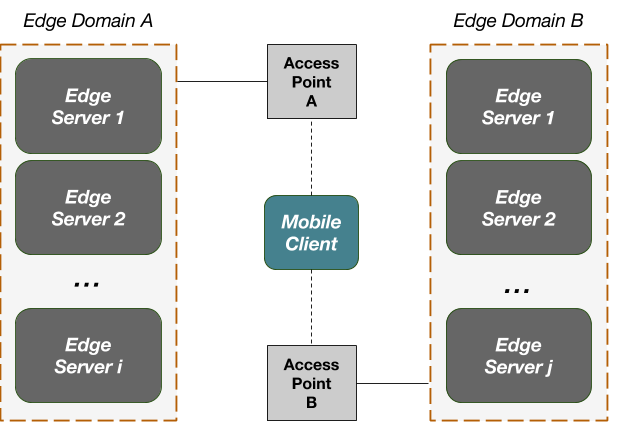
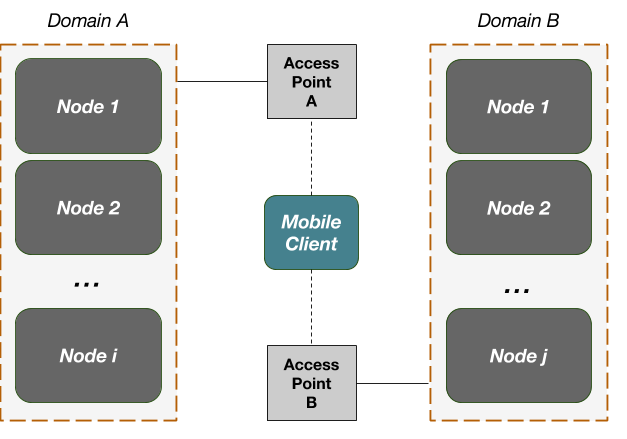
edge -> domain

diff --git a/sections/requirements.tex b/sections/requirements.tex
@@ -9,13 +9,13 @@ The continuum encompasses distinct types of computational resources located at t
 \begin{itemize}
 
 
-\item  Agnostic with respect to the capabilities and specific technology details of different computing platforms (\stepcounter{req_count}\textbf{R\arabic{req_count}}); and
+\item  Agnostic with respect to the capabilities and specific technology details of different computing platforms and infrastructures in the continuum (\stepcounter{req_count}\textbf{R\arabic{req_count}}); and
 
-\item Flexible, so that different instances of the model can address the particularities of distinct types of computing platforms (\stepcounter{req_count}\textbf{R\arabic{req_count}}).
+\item Flexible, so that different instances of the model can address the many particularities in the continuum (\stepcounter{req_count}\textbf{R\arabic{req_count}}).
 
 \end{itemize}
 
-From this point on, the term \textit{domain} is used to abstract whatever computational resources can be employed by different computing platforms (i.e., those used by cloud, mobile-edge, local-edge, and local). It is also implied that edge domains are accessible by mobile clients through some (network) access point. Fig.~\ref{fig:edge-domain-client} illustrates these abstractions. 
+From this point on, the term \textit{domain} is used to abstract whatever computational resources can be employed by different computing platforms (i.e., those used by cloud, mobile-edge, local-edge, and local). It is also implied that edge domains are accessible by clients through some (network) access point. Fig.~\ref{fig:edge-domain-client} illustrates these abstractions. 
 
 \begin{figure}[tbp]
 	\centering
@@ -24,9 +24,9 @@ From this point on, the term \textit{domain} is used to abstract whatever comput
 	\subfloat[Heterogeneus and independent types of edge computing infrastructure (mobile and local) in range of communication with a client device\label{fig:edge-heterogeneity}]{ \includegraphics[width=0.5\textwidth]{figs/edge-heterogeneity.png}}
 	\captionsetup[subfigure]{width=0.45\textwidth}	
 	\hfill
-	\subfloat[Computational resources abstracted under different edge domains; a mobile client within connection range to edge domains A and B through access points A and B\label{fig:edge-domain-client}] {\includegraphics[width=0.45\textwidth]{figs/edge-domain-client.png}}
+	\subfloat[The heterogeneity of different compute platforms and infrastructures abstracted as domains\label{fig:edge-domain-client}] {\includegraphics[width=0.45\textwidth]{figs/edge-domain-client.png}}
 	\hfill\null
-	\caption{Edge heterogeneity}\label{fig:1}
+	\caption{Continuum heterogeneity}\label{fig:1}
 \end{figure}
 
 %In addition, different kinds of edge infrastructure (e.g., more powerful servers or single board computers) or the same kind of edge infrastructure at different contexts (e.g., the number of clients in an area is too high in one region and low in another) may fit better with different policies for edge resources usage. 
@@ -50,7 +50,7 @@ Conversely, users of an augmented reality application could eventually wait for 
 
 %Finally, also considering the multiplicity of edge servers and the need for a scalable solution for the provisioning of edge infrastructure as a service, the following requirement have been defined:
 
-In order to materialize the computational continuum, the fine grained distribution of edge infrastructure has to be encapsulated and managed in an automated way. This encompasses the operational aspects of deployment and maintenance, including the allocation of resources for different services in the context of a shared platform (\textbf{R\arabic{req_count}}). 
+In order to materialize the compute continuum, the fine grained distribution of edge infrastructure has to be encapsulated and managed in an automated way. This encompasses the operational aspects of deployment and maintenance, including the allocation of resources for different services in the context of a shared platform (\textbf{R\arabic{req_count}}). 
 \stepcounter{req_count}
 Additionally, the installation of services to heterogeneous servers in the continuum should also be automated, including the fetching and building of service artifacts (\textbf{R\arabic{req_count}}).
 

diff --git a/sections/motivation.tex b/sections/motivation.tex
@@ -63,6 +63,6 @@ Let us assume the existence of a local edge server in the user's office (hereaft
 
 After work, our user leaves his office and enters his CV. During its way home, the autonomous vehicle will make use of edge services deployed at servers located at cellular base stations and owned by telecoms (hereafter called \textit{mobile-edge}). The connected vehicle gets low-latency updates about the best plan to reach its destination. For example, within milliseconds, the vehicle is suggested to make a turn just in time to avoid the traffic formed by an accident a few blocks ahead.
 
-Already at home, the user's smartphone gets in reach of communication with the local-edge server owned by him. In that day, the user finds out about a new mobile game application that makes use of AR. Upon installation, the local-edge server becomes aware of a new edge-compliant application and meanwhile the user is already playing proceeds with the acquisition and deployment of the service into the local-edge server. After this, the client application becomes aware of these services and switches from local to edge with the purpose of preserving the smartphone's resources. Not only the game performance improves, but also the battery consumption is reduced.  
+Already at home, the user's smartphone gets in reach of communication with the local-edge server owned by him. In that day, the user finds out about a new mobile game application that makes use of AR. Upon installation, the local-edge server becomes aware of a new edge-compliant application and, meanwhile the user is already playing, proceeds with the acquisition and deployment of the game services into the local-edge server. After this, the client application becomes aware of these services and switches from local to edge with the purpose of preserving the smartphone's resources. Not only the game performance improves, but also the battery consumption is reduced.  
 
 In the scenario described above, different parts of the continuum have been employed by user's devices. Whilst edge was privileged, cloud-based services remain fundamental, as edge infrastructure may not be available and services for which network latency is not disruptive are in the cloud (e.g., persistence, stateful components, and large part of the business logic).
